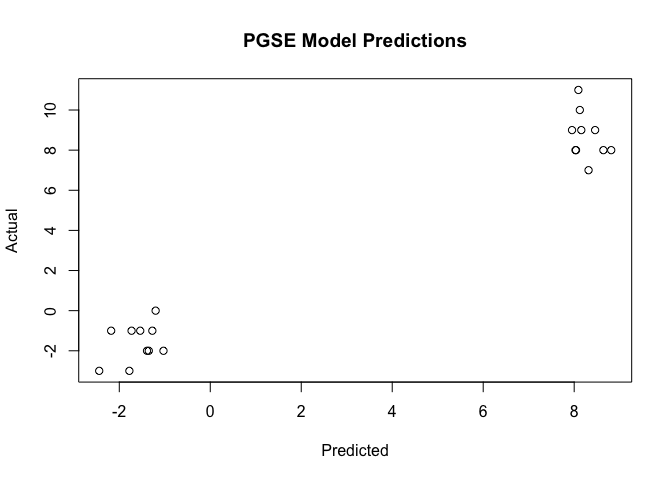
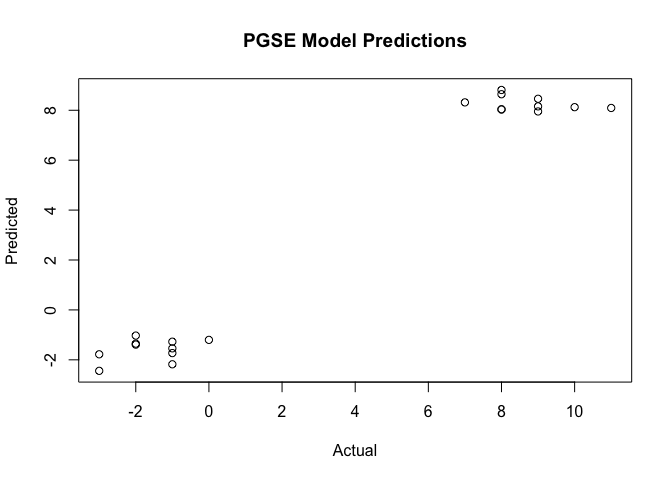
flip coordinates

diff --git a/R-package/README.md b/R-package/README.md
@@ -122,9 +122,9 @@ preds <- predict(result,
                  names(data))
 
 # plot
-plot(preds ~ labels,
-     xlab = "Predicted MIC",
-     ylab = "Actual MIC",
+plot(preds, labels,
+     xlab = "Actual MIC",
+     ylab = "Predicted MIC",
      main = "PGSE predicted results")
 ```
 
